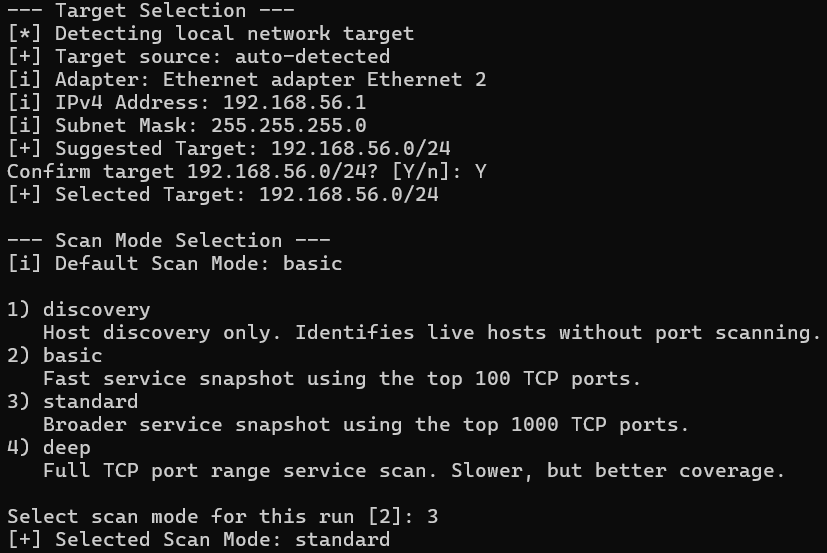
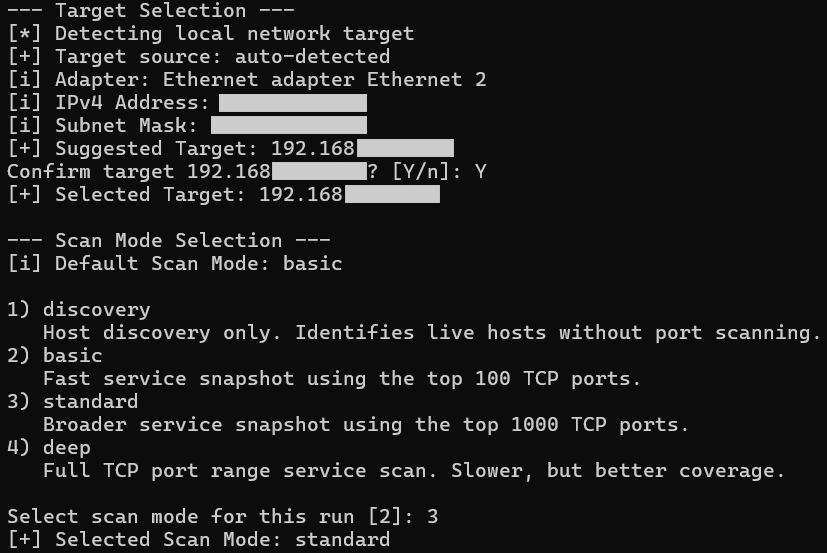
more blurs

Changed region(s): [[0.2418, 0.1537, 0.5744, 0.3689]]

diff --git a/README.md b/README.md
@@ -1,6 +1,6 @@
 # Sondar
 
-**Home network visibility, scan inventory, and change monitoring.**
+**Network visibility workflow for host discovery, service inventory, and change detection.**
 
 Sondar is a Python-based network visibility tool for authorised home and lab environments. It detects a local network target, asks the operator to confirm or override it, runs a selected nmap scan profile, parses XML scan output, builds inventory snapshots, compares changes between runs, and generates Markdown reports.
 